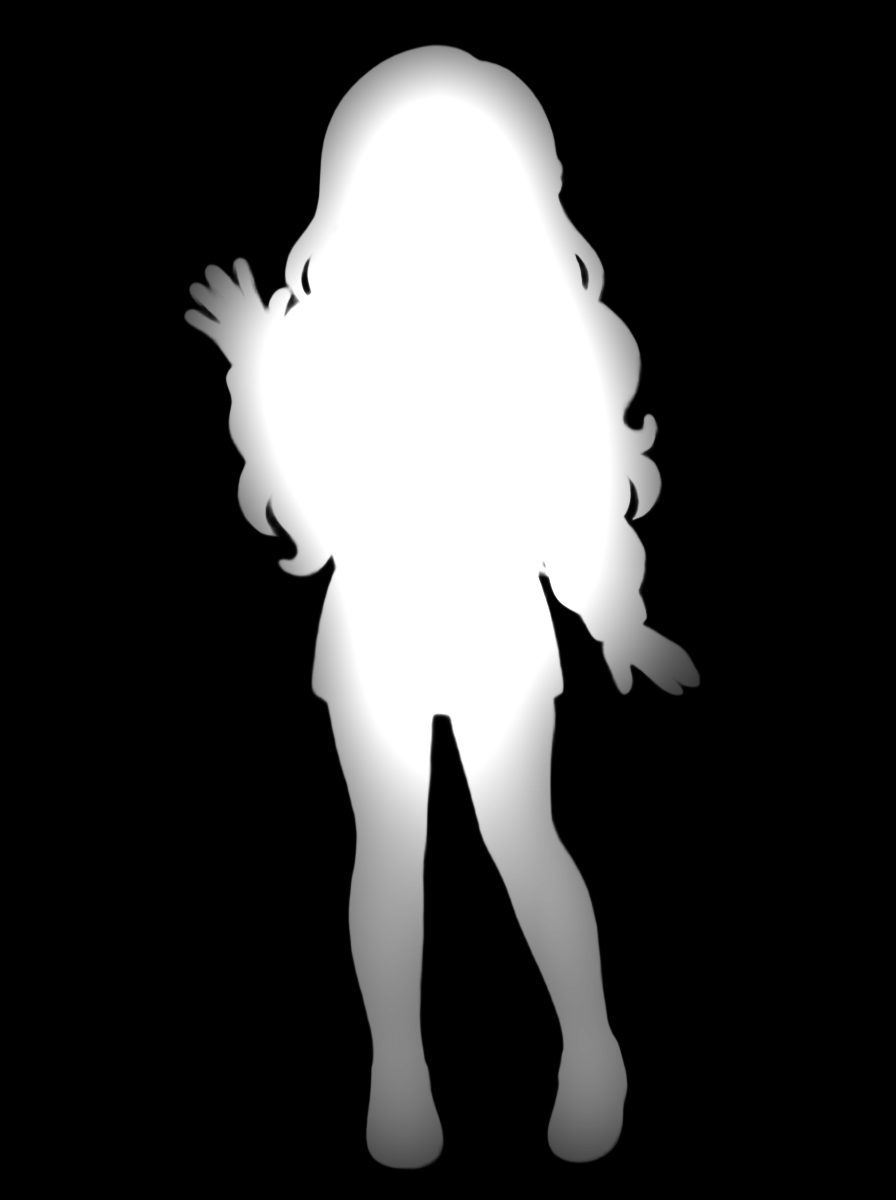
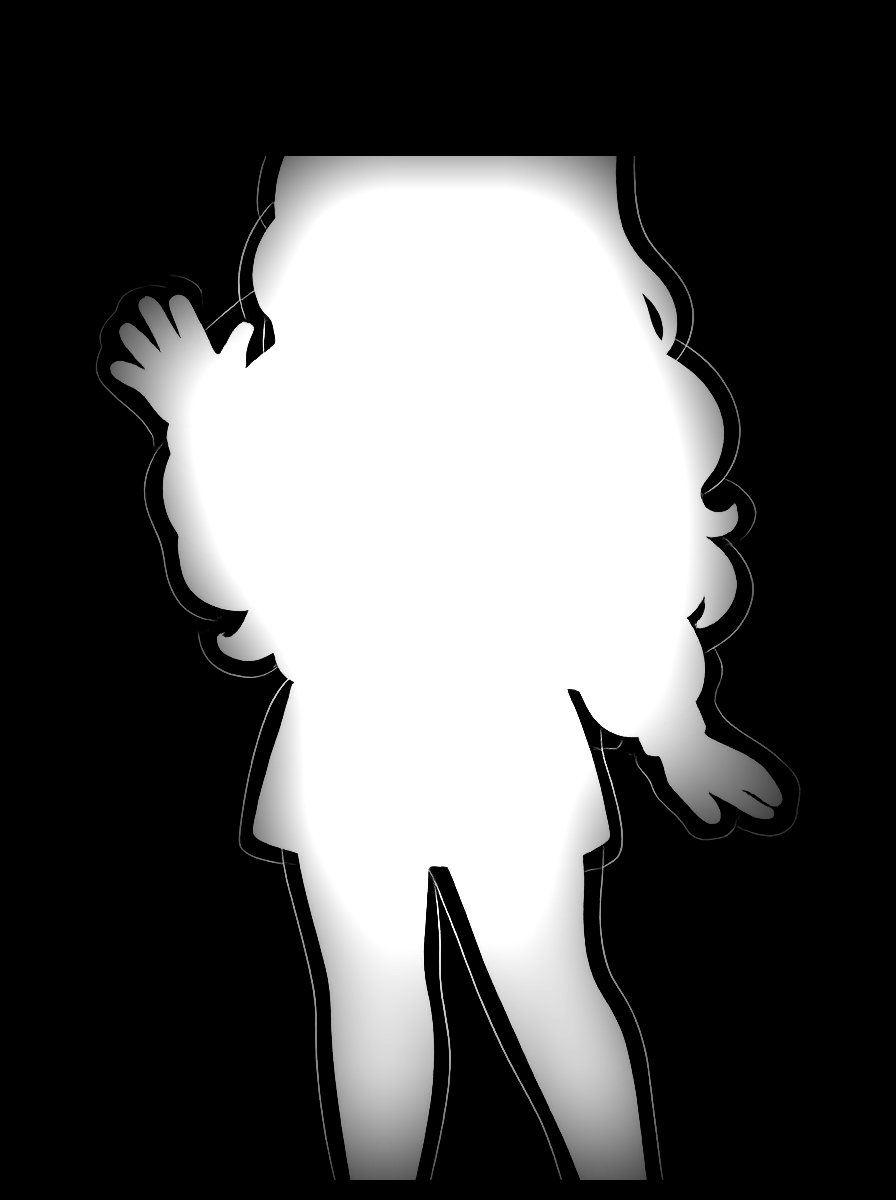
Unify Lumi's art style and bring living scenes to the home hero
- Regenerated wave/cheer/think via OpenAI to match the encourage/clap/
  point/love style, so the whole cast is one consistent character
  (recomposed onto her standard canvas; depth map rebuilt from the new idle)
- Animated the SVG background scenes: rolling waves (ocean/beach), twinkling
  stars (night/galaxy/aurora), drifting clouds (candy/rainbow), flickering
  city windows, and shifting aurora ribbons — pure CSS, off under
  prefers-reduced-motion
- The home hero now renders the equipped background as its full illustrated
  scene (not just a gradient), so the living scenery shows where she spends
  her time, not only in the shop preview

Verified: hero shows the animated beach scene + unified Lumi; build green.

Changed region(s): [[0.125, 0.0308, 0.875, 0.9867]]

diff --git a/components/scene-art.tsx b/components/scene-art.tsx
@@ -71,8 +71,8 @@ function Ocean() {
       <path d="M62 111c8 3 11 10 10 19H62z" fill="#e2453b" opacity="0.95" />
       <path d="M50 132h26l-5 8H55z" fill="#20477e" />
       {/* waves */}
-      <path d="M0 150c12-6 24-6 36 0s24 6 36 0 24-6 36 0 24 6 36 0 24-6 36 0 20 5 20 5v45H0z" fill="#1d7fa8" opacity="0.5" />
-      <path d="M0 166c15-6 30-6 45 0s30 6 45 0 30-6 45 0 30 6 45 0 20-4 20-4v38H0z" fill="#14618c" opacity="0.55" />
+      <path className="s-wave" d="M0 150c12-6 24-6 36 0s24 6 36 0 24-6 36 0 24 6 36 0 24-6 36 0 20 5 20 5v45H0z" fill="#1d7fa8" opacity="0.5" />
+      <path className="s-wave" style={{ animationDelay: "1.2s" }} d="M0 166c15-6 30-6 45 0s30 6 45 0 30-6 45 0 30 6 45 0 20-4 20-4v38H0z" fill="#14618c" opacity="0.55" />
     </Frame>
   );
 }
@@ -87,7 +87,7 @@ function Candy() {
         [58, 120, 12],
         [148, 128, 16],
       ].map(([x, y, r], i) => (
-        <g key={i} opacity="0.9">
+        <g key={i} className="s-drift" style={{ animationDelay: `${i * 1.1}s` }} opacity="0.9">
           <circle cx={x} cy={y} r={r} fill="#fff" opacity="0.85" />
           <circle cx={x - r * 0.8} cy={y + r * 0.25} r={r * 0.7} fill="#fff" opacity="0.8" />
           <circle cx={x + r * 0.8} cy={y + r * 0.25} r={r * 0.7} fill="#ffeef8" opacity="0.85" />
@@ -139,7 +139,7 @@ function Galaxy() {
   return (
     <Frame anchor="top">
       {Array.from({ length: 18 }).map((_, i) => (
-        <circle key={i} cx={(i * 47 + 9) % 198} cy={(i * 71 + 15) % 190} r={i % 4 === 0 ? 1.8 : 1} fill="#fff" opacity={0.4 + (i % 3) * 0.2} />
+        <circle key={i} className="s-twinkle" style={{ animationDelay: `${(i % 6) * 0.5}s` }} cx={(i * 47 + 9) % 198} cy={(i * 71 + 15) % 190} r={i % 4 === 0 ? 1.8 : 1} fill="#fff" opacity={0.4 + (i % 3) * 0.2} />
       ))}
       {/* ringed planet */}
       <g transform="translate(150 54) rotate(-18)">
@@ -175,7 +175,7 @@ function Beach() {
       <path d="M40 200c-2-40-2-72 0-96" stroke="#a9764b" strokeWidth="6" strokeLinecap="round" />
       <path d="M40 104c-14-6-28-4-40 4 10-14 28-18 42-10 14-8 32-4 42 10-14-8-30-8-44-4z" fill="#3f9e68" />
       {/* sea + sand */}
-      <path d="M0 150c16-6 32-6 48 0s32 6 48 0 32-6 48 0 32 6 40 4v50H0z" fill="#2aa7d6" opacity="0.55" />
+      <path className="s-wave" d="M0 150c16-6 32-6 48 0s32 6 48 0 32-6 48 0 32 6 40 4v50H0z" fill="#2aa7d6" opacity="0.55" />
       <path d="M0 168c40-8 80-8 120 0s80 8 80 8v28H0z" fill="#f2cf86" />
       <path d="M0 176c40-6 80-6 120 0s80 6 80 6v20H0z" fill="#e8bf6e" />
     </Frame>
@@ -213,9 +213,11 @@ function Rainbow() {
       {bands.map((c, i) => (
         <path key={i} d={`M-10 ${150} A ${120 - i * 8} ${120 - i * 8} 0 0 1 ${210} ${150}`} fill="none" stroke={c} strokeWidth="8" opacity="0.8" />
       ))}
-      <g opacity="0.9">
+      <g className="s-drift" opacity="0.9">
         <circle cx="26" cy="150" r="12" fill="#fff" />
         <circle cx="40" cy="150" r="15" fill="#fff" />
+      </g>
+      <g className="s-drift" style={{ animationDelay: "2s" }} opacity="0.9">
         <circle cx="174" cy="150" r="12" fill="#fff" />
         <circle cx="160" cy="150" r="15" fill="#fff" />
       </g>
@@ -231,6 +233,8 @@ function Night() {
       {Array.from({ length: 22 }).map((_, i) => (
         <path
           key={i}
+          className="s-twinkle"
+          style={{ animationDelay: `${(i % 7) * 0.4}s` }}
           d="M0 -2.4l0.7 1.5 1.7 0.25-1.2 1.2 0.28 1.7L0 1.4l-1.5 0.8 0.28-1.7-1.2-1.2 1.7-0.25z"
           transform={`translate(${(i * 41 + 12) % 196} ${(i * 53 + 20) % 150}) scale(${1 + (i % 3) * 0.6})`}
           fill="#fff"
@@ -258,17 +262,22 @@ function City() {
         <g key={i}>
           <rect x={x} y={y} width={w} height={200 - y} fill="#1e1436" opacity="0.85" />
           {Array.from({ length: Math.floor((200 - y) / 14) }).map((_, r) =>
-            Array.from({ length: Math.floor(w / 8) }).map((_, c2) => (
-              <rect
-                key={`${r}-${c2}`}
-                x={x + 3 + c2 * 8}
-                y={y + 6 + r * 14}
-                width="3.5"
-                height="5"
-                fill={(r + c2 + i) % 3 === 0 ? "#ffd76a" : "#6a5aa0"}
-                opacity="0.9"
-              />
-            )),
+            Array.from({ length: Math.floor(w / 8) }).map((_, c2) => {
+              const lit = (r + c2 + i) % 3 === 0;
+              return (
+                <rect
+                  key={`${r}-${c2}`}
+                  className={lit ? "s-flicker" : undefined}
+                  style={lit ? { animationDelay: `${((r + c2 + i) % 5) * 0.7}s` } : undefined}
+                  x={x + 3 + c2 * 8}
+                  y={y + 6 + r * 14}
+                  width="3.5"
+                  height="5"
+                  fill={lit ? "#ffd76a" : "#6a5aa0"}
+                  opacity="0.9"
+                />
+              );
+            }),
           )}
         </g>
       ))}
@@ -280,12 +289,12 @@ function Aurora() {
   return (
     <Frame anchor="top">
       {Array.from({ length: 22 }).map((_, i) => (
-        <circle key={i} cx={(i * 47 + 9) % 198} cy={(i * 61 + 12) % 150} r={i % 4 === 0 ? 1.6 : 1} fill="#fff" opacity={0.4 + (i % 3) * 0.2} />
+        <circle key={i} className="s-twinkle" style={{ animationDelay: `${(i % 6) * 0.5}s` }} cx={(i * 47 + 9) % 198} cy={(i * 61 + 12) % 150} r={i % 4 === 0 ? 1.6 : 1} fill="#fff" opacity={0.4 + (i % 3) * 0.2} />
       ))}
       {/* shimmering aurora ribbons */}
-      <path d="M-10 70 Q50 30 100 70 T210 60 V150 H-10 Z" fill="#3cdca0" opacity="0.28" />
-      <path d="M-10 92 Q60 52 120 92 T210 84 V150 H-10 Z" fill="#5aa0ff" opacity="0.26" />
-      <path d="M-10 112 Q70 78 130 112 T210 106 V150 H-10 Z" fill="#a06bdc" opacity="0.28" />
+      <path className="s-aurora" d="M-10 70 Q50 30 100 70 T210 60 V150 H-10 Z" fill="#3cdca0" opacity="0.28" />
+      <path className="s-aurora" style={{ animationDelay: "1.5s" }} d="M-10 92 Q60 52 120 92 T210 84 V150 H-10 Z" fill="#5aa0ff" opacity="0.26" />
+      <path className="s-aurora" style={{ animationDelay: "3s" }} d="M-10 112 Q70 78 130 112 T210 106 V150 H-10 Z" fill="#a06bdc" opacity="0.28" />
     </Frame>
   );
 }

diff --git a/app/globals.css b/app/globals.css
@@ -390,6 +390,21 @@
   );
 }
 
+/* Living scenery: subtle continuous motion for equipped backgrounds. */
+@keyframes scene-wave { 0% { transform: translateX(0); } 50% { transform: translateX(-14px); } 100% { transform: translateX(0); } }
+@keyframes scene-drift { 0% { transform: translateX(-6px); } 50% { transform: translateX(10px); } 100% { transform: translateX(-6px); } }
+@keyframes scene-twinkle2 { 0%, 100% { opacity: 0.35; } 50% { opacity: 1; } }
+@keyframes scene-flicker { 0%, 100% { opacity: 0.9; } 45% { opacity: 0.25; } 70% { opacity: 1; } }
+@keyframes scene-aurora { 0% { transform: translateX(-10px); opacity: 0.22; } 50% { transform: translateX(12px); opacity: 0.34; } 100% { transform: translateX(-10px); opacity: 0.22; } }
+.s-wave { animation: scene-wave 6s ease-in-out infinite; }
+.s-drift { animation: scene-drift 9s ease-in-out infinite; }
+.s-twinkle { animation: scene-twinkle2 3s ease-in-out infinite; }
+.s-flicker { animation: scene-flicker 4s ease-in-out infinite; }
+.s-aurora { animation: scene-aurora 8s ease-in-out infinite; will-change: transform, opacity; }
+@media (prefers-reduced-motion: reduce) {
+  .s-wave, .s-drift, .s-twinkle, .s-flicker, .s-aurora { animation: none; }
+}
+
 /* Legendary shop items — a warm gold border + pulsing glow to feel rare.
    (Avoids the multi-value background-clip gradient-border trick, which
    Lightning CSS silently drops.) */

diff --git a/app/page.tsx b/app/page.tsx
@@ -21,6 +21,7 @@ import { PlayerBar } from "@/components/player-bar";
 import { DailyQuests } from "@/components/daily-quests";
 import { LumiDepth } from "@/components/lumi-depth";
 import { EffectLayer } from "@/components/lumi-scene";
+import { SceneArt } from "@/components/scene-art";
 import { AmbientStars } from "@/components/juice";
 import { useSettings } from "@/lib/hooks/useSettings";
 import { usePlayer } from "@/lib/hooks/usePlayer";
@@ -53,6 +54,7 @@ export default function HomePage() {
         style={bg?.background ? { background: bg.background } : undefined}
       >
         <div className="flag-bar absolute inset-x-0 top-0 z-20 h-[3px]" aria-hidden />
+        {bg && <SceneArt bgId={bg.id} />}
         <AmbientStars />
         {effect?.effect && <EffectLayer kind={effect.effect} />}
         {/* Text-protection scrim: keeps the greeting readable over ANY equipped
